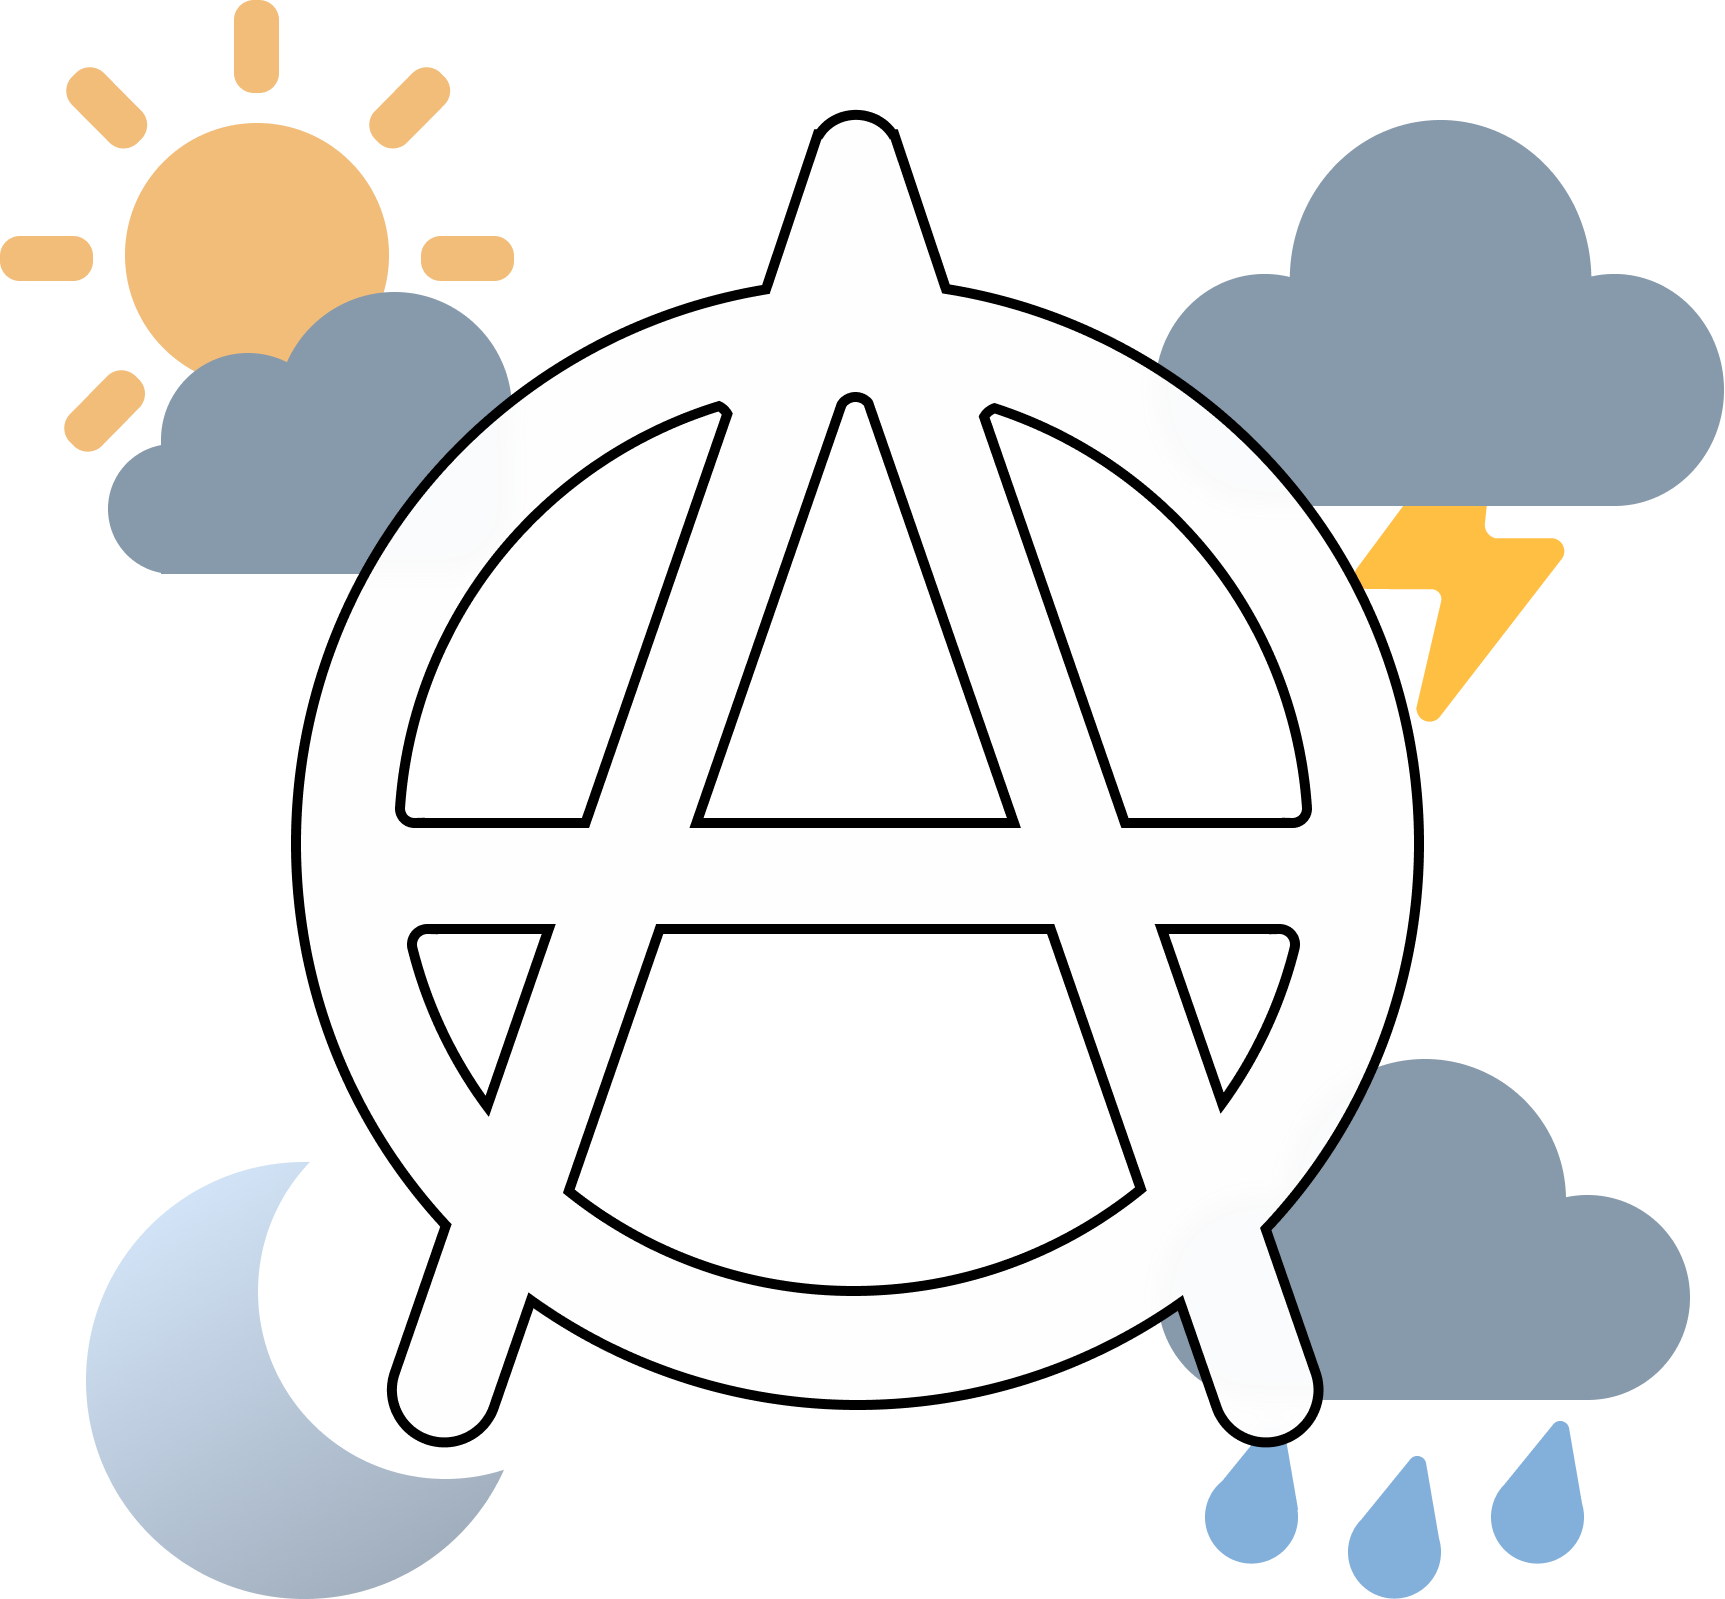
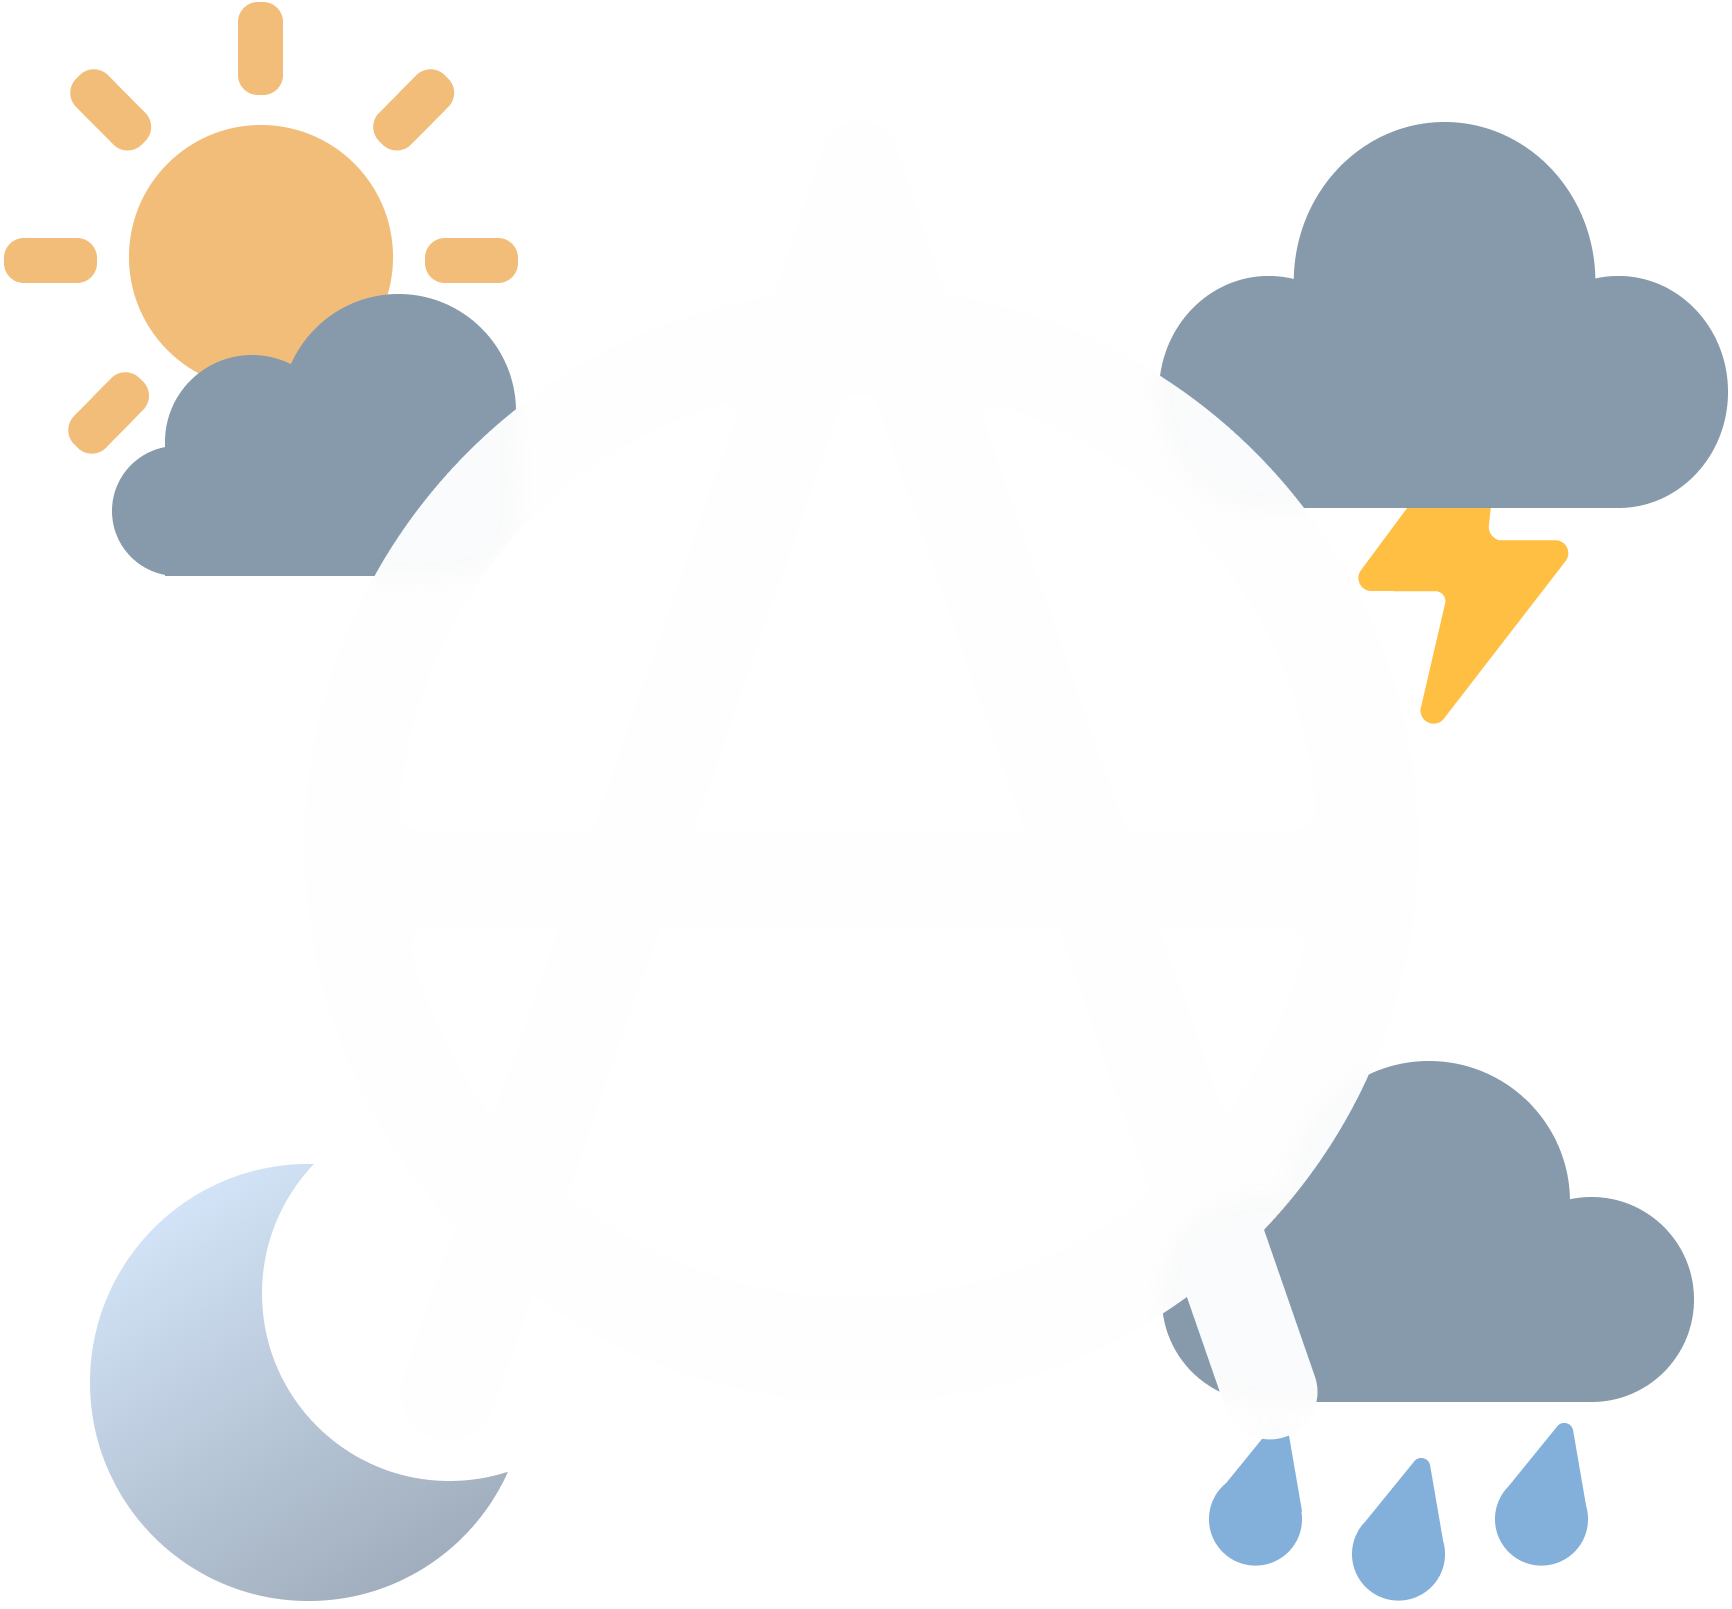
release 3.2

diff --git a/TimeWeatherAnarchy/Code/Settings/ProfileUtils.cs b/TimeWeatherAnarchy/Code/Settings/ProfileUtils.cs
@@ -1,4 +1,4 @@
-using System;
+using System;
 using System.Collections.Generic;
 using System.IO;
 using System.Linq;
@@ -78,27 +78,40 @@ public static class ProfileUtils
                     {
                         var text = File.ReadAllText(fileInfo.FullName);
                         var profile = JSON.MakeInto<TimeWeatherProfile>(JSON.Load(text));
-                        profiles.Add(profile);
+                        if (profile != null)
+                        {
+                            profiles.Add(profile);
+                        }
+                        else
+                        {
+                            Mod.log.Info("error loading profile. Deserialization returned null for: " + fileInfo.Name);
+                        }
                     }
                     catch (Exception e)
                     {
                         Mod.log.Info("error loading profile. check json for issues " + e.Message);
                     }
                 });
-                if (profiles.FirstOrDefault(profile => profile.Id == TimeWeatherProfile.DefaultID) == null)
+                if (profiles.FirstOrDefault(profile => profile != null && profile.Id == TimeWeatherProfile.DefaultID) == null)
                 {
                     var defaultProfile = CreateDefault(settings);
-                    profiles.Add(defaultProfile);
-                    Save(defaultProfile);
+                    if (defaultProfile != null)
+                    {
+                        profiles.Add(defaultProfile);
+                        Save(defaultProfile);
+                    }
                 }
             }
             else
             {
                 var defaultProfile = CreateDefault(settings);
-                profiles.Add(defaultProfile);
-                Save(defaultProfile);
+                if (defaultProfile != null)
+                {
+                    profiles.Add(defaultProfile);
+                    Save(defaultProfile);
+                }
             }
-            return profiles.OrderBy(q => q.Index).ToList();
+            return profiles.Where(q => q != null).OrderBy(q => q.Index).ToList();
         }
 
         public static void Delete(string id)

diff --git a/TimeWeatherAnarchy/Setting.cs b/TimeWeatherAnarchy/Setting.cs
@@ -1,4 +1,4 @@
-using System;
+using System;
 using System.Collections.Generic;
 using System.Linq;
 using Colossal.IO.AssetDatabase;
@@ -68,21 +68,26 @@ namespace TimeWeatherAnarchy
         public void UpdateProfile(string profileId, string profileName)
         {
             var profile = Profiles.Find((p) => p.Id == profileId);
-            profile.Name = profileName;
-            Profiles.Add(profile);
-            SelectedProfile = profile.Id;
-            ProfileUtils.Save(profile);
+            if (profile != null)
+            {
+                profile.Name = profileName;
+                SelectedProfile = profile.Id;
+                ProfileUtils.Save(profile);
+            }
             InitializeProfiles();
         }
         
         public void DeleteProfile(string profileId)
         {
             var profile = Profiles.Find((p) => p.Id == profileId);
-            SelectedProfile = Profiles.Prev(profile).Id;
-            ProfileUtils.Delete(profileId);
-            var linksToRemove = SaveGameLinks.Where(kv => kv.Value?.ProfileId == profileId).Select(kv => kv.Key).ToList();
-            foreach (var key in linksToRemove) SaveGameLinks.Remove(key);
-            SaveLinkUtils.SaveLinks(SaveGameLinks);
+            if (profile != null)
+            {
+                SelectedProfile = Profiles.Prev(profile)?.Id ?? TimeWeatherProfile.DefaultID;
+                ProfileUtils.Delete(profileId);
+                var linksToRemove = SaveGameLinks.Where(kv => kv.Value?.ProfileId == profileId).Select(kv => kv.Key).ToList();
+                foreach (var key in linksToRemove) SaveGameLinks.Remove(key);
+                SaveLinkUtils.SaveLinks(SaveGameLinks);
+            }
             InitializeProfiles();
         }
 